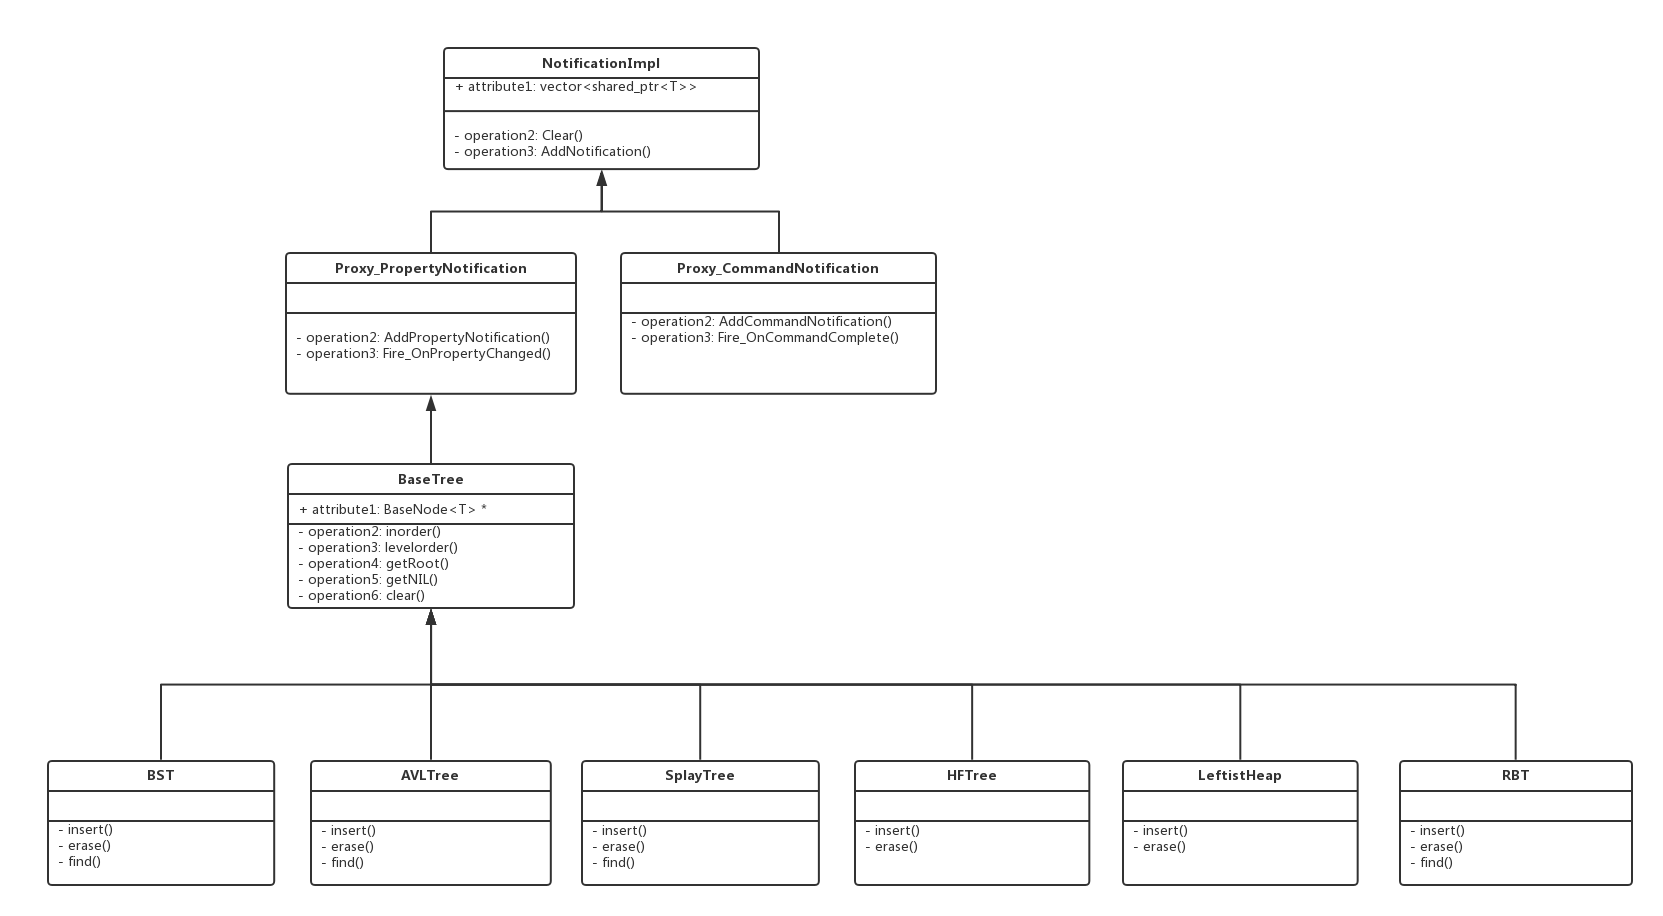
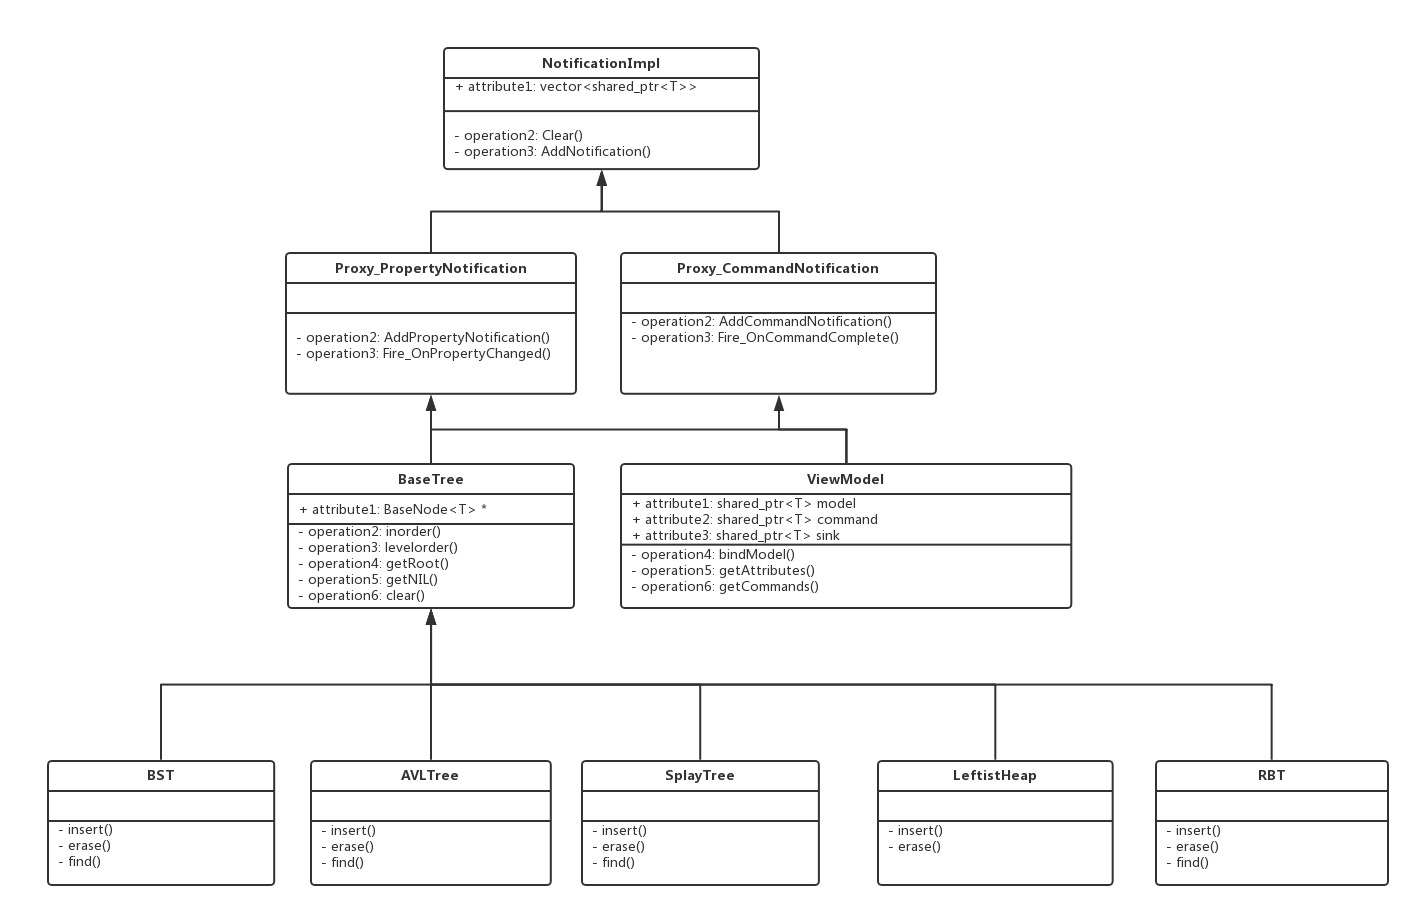
Update doc

diff --git a/doc/王晓强-个人报告.md b/doc/王晓强-个人报告.md
@@ -1,0 +1,251 @@
+---
+Author: 王晓强([QIndomiable](https://robert-xiaoqiang.github.io/)
+Date: 2018.7.26
+
+---
+
+
+# 王晓强-个人报告
+
+### 目录
+- [王晓强-个人报告](#王晓强个人报告)
+   - [分工](#分工)
+   - [第一轮迭代设计过程](#第一轮迭代设计过程)
+      - [设计任务](#设计任务)
+      - [设计思路方案与实现简述](#设计思路方案与实现简述)
+      - [单元测试](#单元测试)
+   - [第二轮迭代设计过程](#第二轮迭代设计过程)
+   - [第三轮迭代设计过程](#第三轮迭代设计过程)
+   - [图表说明](#图表说明)
+   - [个人课程心得体会](#个人课程心得体会)
+   - [课程建议](#课程建议)
+   
+### 分工
+- [回到顶部](#目录)
+- 第一轮迭代负责Model, ViewModel层, 完成ViewModel接收器, 和ViewModel命令
+- 第二轮迭代负责Model, ViewModel层, 添加平衡二叉树, 伸展树, 左式堆
+- 第三轮迭代负责Model, ViewModel层, 添加红黑树, 优化MVVM设计范式
+
+### 第一轮迭代设计过程
+- [回到顶部](#目录)
+#### 设计任务
+- ***Model设计***
+   - **设计模型基类, 方便ViewModel层进行暴露属性**
+   - **设计二叉查找树模型, 提供动态查找的基本操作(插入, 删除, 静态查找)**
+   
+- ***ViewModel设计*** 
+   - **设计ViewModel单例, 管理Model, 命令, 通知接收器, 通知发生器**
+   - **设计通知接收器, 接受来自Model的属性改变的通知**
+   - **设计命令基类, 方便ViewModel层进行暴露命令**
+   - **设计`BSTInsert`, `BSTErase`等命令**
+
+#### 设计思路方案与实现简述
+- **设计模型基类, 方便ViewModel层进行暴露属性**
+   - 树提供共有的基本成员函数, 如中序, 层序遍历等
+   - 树节点提供共有的成员对象`left`, `right`, `key`, `depth`
+   - 继承属性通知发生器(`Proxy_PropertyNotification<T>`)
+   - 设计`virtual`析构函数, `virtual`清空函数(不同模型将使用不同清空动作)
+   - 树模板声明
+   ```C++
+   template <typename T, typename S = std::less<T>>
+   class BaseTree : public Proxy_PropertyNotification<BaseTree<T, S>> {
+   protected:
+        BaseNode<T> *root;
+   protected:
+        void inorder(BaseNode<T> *cur, int *count);
+        void levelorder();
+   public:
+        BaseTree();
+        virtual ~BaseTree();
+        BaseNode<T> *getRoot();
+        virtual BaseNode<T> *getNIL();
+        void clear();
+   };
+   ```
+- **设计二叉查找树模型, 提供动态查找的基本操作(插入, 删除, 静态查找)**
+   - 树节点继承基类树节点, 树继承基类树
+   - 实现插入, 删除, 查找算法
+   - 节点不需要增加其他属性
+   - 树不需要增加其他属性 
+   - 模板声明(部分)
+   ```C++
+   template <typename T, typename S = less<T>>
+   class BST : public BaseTree<T, S> {
+   public:
+		BST();
+		virtual ~BST();
+		void insert(const T& key);
+		BSTNode<T> *find(const T& key);
+		void erase(const T& key);
+   };
+   ```
+- **设计ViewModel单例, 管理Model, 命令, 通知接收器, 通知发生器**
+   - 继承属性通知发生器(`Proxy_PropertyNotification<T>`)
+   - 继承命令通知发生器(`Proxy_CommandNotification<T>`)
+   - `shared_ptr<T>`维护`BaseTree`, 构造时绑定对应`Model`
+   - `shared_ptr<T>`维护`CommandBase`, 构造时绑定对应`Command`
+   - 私有维护`Model属性改变通知`接收器
+   - 提供方法绑定`Model`
+   - 提供方法以`shared_ptr<T>`暴露`Command`
+   - 提供方法执行`Model操作/动作`(boolean 返回值), 将来用于`Command`实现
+   - 详见`/project/ViewModel/ViewModel.*`
+- **设计通知接收器, 接受来自Model的属性改变的通知**
+   - 继承`IPropertyNotification`
+   - 以指针方式引用`ViewMode`单例
+   - `override OnPropertyChanged(str)`成员函数
+   - 详见`/project/ViewModel/Sinks/VMPropertySink.*`
+- **设计命令基类, 方便ViewModel层进行暴露命令**
+   - 以`shared_ptr<T>`存放参数
+   - 提供参数的`set()`, 和`Exec()`纯虚函数
+   - 详见`/project/Common/CommandBase.*`
+- **设计`BSTInsert`, `BSTErase`等命令**
+   - 继承`CommandBase`
+   - `override Exec()`函数
+   - 以指针方式引用`ViewModel`单例
+   - 详见`/project/ViewModel/Commands/\*.*`
+#### 单元测试
+   - 二叉查找树
+   ```C++
+   #include "BST.h"
+   int main()
+   {
+			BST<int> *bst = new BST<int>;
+			bst->insert(5);
+			bst->insert(3);
+			bst->insert(4);
+			bst->insert(6);
+			bst->insert(2);
+			bst->insert(1);
+			bst->insert(7);
+			bst->insert(8);
+			bst->insert(9);
+			bst->insert(10);
+			bst->insert(11);
+	
+			bst->erase(5);
+			bst->erase(4);
+			bst->erase(3);
+
+			bst->print();
+
+			delete bst;
+			return 0;
+   }
+   ```
+   - 程序运行输出
+![testBST](https://github.com/SummerZJU/CSummerZJU/blob/master/image/Model/testBST.png "testBST")
+
+### 第二轮迭代设计过程
+- [回到顶部](#目录)
+#### 设计任务
+- ***Model设计***
+   - **设计平衡二叉树, 伸展树, 左式堆**
+- ***ViewModel设计***
+   - **设计`AVLTreeInsert`, `AVLTreeErase`等命令**
+   - **设计`SplayTreeInsert`, `SplayTreeErase`等命令**
+   - **设计`LeftistHeapInsert`, `LeftistHeapErase`等命令**
+#### 设计思路方案与实现简述
+- **设计平衡二叉树, 伸展树, 左式堆**
+   - 设计方案同二叉查找树(见[第一轮迭代](#第一轮迭代设计过程))
+- **设计`AVLTreeInsert`, `AVLTreeErase`等命令**
+   - `AVLTree`, `SplayTree`相关命令设计方案同二叉查找树(见[第一轮迭代](#第一轮迭代设计过程))
+   - `LeftistHeap`相关命令的设计, 要注意无法实现find操作
+   - 详见`/project/ViewModel/\*.*`, `/project/Model/\*.*` 
+#### 单元测试
+   - 平衡二叉树
+   ```C++
+   #include "AVLTree.h"
+
+   int main()
+   {
+		AVLTree<int> *atree = new AVLTree<int>;
+	
+        atree->insert(1);
+        atree->insert(2);
+        atree->insert(3);
+        atree->insert(4);
+        atree->insert(5);
+        atree->insert(6);
+        atree->insert(7);
+        atree->insert(8);
+        atree->erase(8);
+        atree->erase(5);
+        atree->erase(7);
+        atree->erase(6);
+        atree->print();
+        delete atree;
+        return 0;
+   }
+   ```
+   - 程序运行输出
+![testAVL](https://github.com/SummerZJU/CSummerZJU/blob/master/image/Model/testAVL.png "testAVL")
+
+### 第三轮迭代设计过程
+- [回到顶部](#目录)
+#### 设计任务
+- ***Model设计***
+   - **设计红黑树**
+- ***ViewModel设计***
+   - **设计`RBTInsert`, `RBTErase`等命令**
+- ***MVVM设计范式优化***
+#### 设计思路方案与实现简述
+- **设计红黑树**
+   - 设计方案同二叉查找树(见[第一轮迭代](#第一轮迭代设计过程))
+- **设计`RBTInsert`, `RBTErase`等命令**
+   - `RBT`相关命令设计方案同二叉查找树(见[第一轮迭代](#第一轮迭代设计过程))
+- **MVVM设计范式优化**
+   - 重命名`ViewModel`提供的关于`Model`的操作, 使其体现**功能**信息, 而不体现**命令**信息
+#### 单元测试
+    - 红黑树
+    ```C++
+       #include "RBT.h"
+       int main()
+       {
+            RBT<int> *rbt = new RBT<int>;
+            rbt->insert(3);
+            rbt->insert(4);
+            rbt->insert(1);
+            rbt->insert(2);
+            rbt->insert(5);
+            rbt->insert(10);
+            rbt->insert(9);
+            rbt->insert(7);
+            rbt->insert(8);
+            rbt->insert(6);
+    
+            rbt->erase(4);
+            rbt->erase(1);
+            rbt->erase(2);
+            rbt->erase(3);
+    
+            rbt->print();
+            delete rbt;
+            return 0;
+       }
+       ```
+   - 程序运行输出
+![testRBT](https://github.com/SummerZJU/CSummerZJU/blob/master/image/Model/testRBT.png "testRBT")
+
+
+### 图表说明
+- [回到顶部](#目录)
+- UML类图
+![UMLModel](https://github.com/SummerZJU/CSummerZJU/blob/master/image/Model/UMLModel.png
+"UMLModel")
+
+### 个人课程心得体会
+- [回到顶部](#目录)
+
+- 个人`CPP`工程技能收获
+   1. 初步了解大型程序的多人协作开发流程, `MVVM UI`设计模式可以充分解耦`Model`, `ViewModel`, `Model`之间的关联, 通过基类, 通过接口协议, 可以实现高效的同时协作开发, 提高工作效率
+   2. 对模板元编程技术有了新的理解和熟练, 对现代C++特性也有了进一步的了解
+- 个人合作精神收获
+   1. 正确的框架, 高效的设计模式, 产品经理恰当的分工是一个开发团队成功的关键, 也是在平时的课程中, 在校园里很难学到的东西, 短学期让我受益匪浅!
+   2. 分工之后, 并不是完全分割开发者, 开发者之间也要保持有效的沟通, 才能一起提高工作效率, 设计出令人满意的作品, 艺术品!
+
+
+### 课程建议
+1.在迭代前期能提供设计范式的`Demo`将更有利于学生的迭代和分工
+2.更多介绍`C++`的经典工程和设计范式
+
+---

diff --git a/doc/DSVModelDesign.md b/doc/DSVModelDesign.md
@@ -1,12 +1,20 @@
 # 目录
+
 - [DSV Model Design](#dsv-model-design)
    - [设计任务](#设计任务)
+
    - [设计思路与方案](#设计思路与方案)
+
    - [设计实现](#设计实现)
+
    - [单元测试](#单元测试)
+
    - [图表说明](#图表说明)
+
    - [本课程心得体会](#本课程心得体会)
- ---
+
+     
+---
 # DSV Model Design
 ### 设计任务
 
@@ -71,7 +79,6 @@
    - 提供共有的基本成员函数, 如中序, 层序遍历等
    - 提供共有的成员对象`left`, `right`, `key`, `depth`
    - 继承属性通知发生器(`Proxy_PropertyNotification<T>`)
-   - 继承命令通知发生器(`Proxy_CommandNotification<T>`)
    - 设计`virtual`析构函数, `virtual`清空函数(不同模型将使用不同清空动作)
    
 - **二叉查找树设计方案**
@@ -142,8 +149,7 @@
    - 模型基类树模板声明
    ```C++
    template <typename T, typename S = std::less<T>>
-   class BaseTree : public Proxy_PropertyNotification<BaseTree<T, S>>, 
-				 public Proxy_CommandNotification<BaseTree<T, S>> {
+   class BaseTree : public Proxy_PropertyNotification<BaseTree<T, S>> {
    protected:
         BaseNode<T> *root;
    protected:
